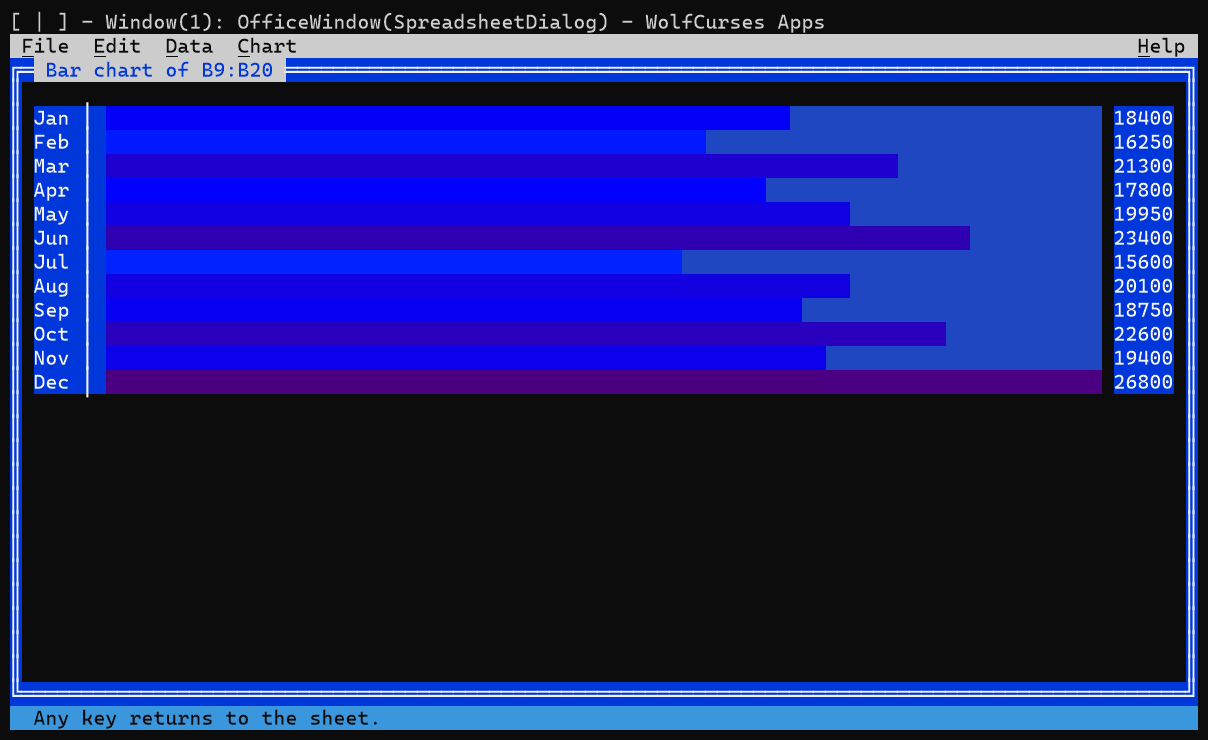
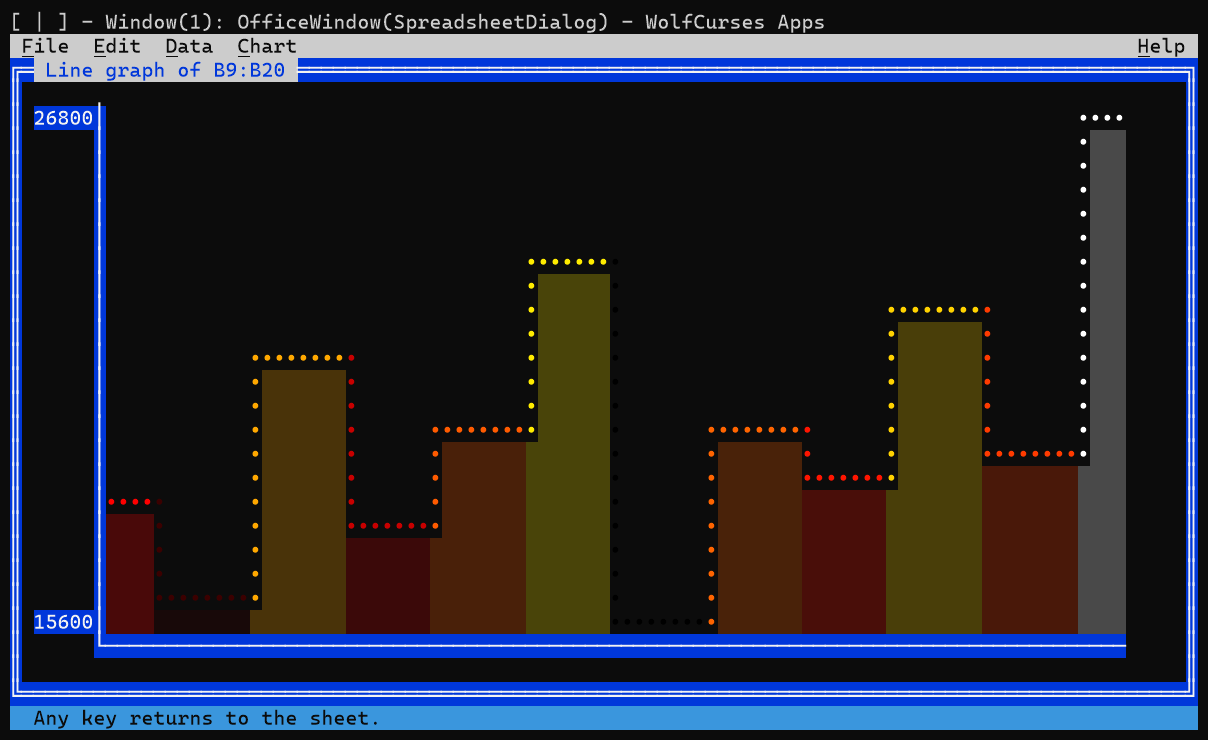
Update to speadsheet to show off line graph properly.

diff --git a/example/WolfCurses.Apps/README.md b/example/WolfCurses.Apps/README.md
@@ -60,9 +60,11 @@ A grid of cells with the same menus and frame round it, lettered columns, number
 
 **Formulas.** A cell beginning with `=` is worked out: arithmetic with the usual precedence, brackets, powers, cell references, ranges, and `SUM`, `AVERAGE`, `MIN`, `MAX`, `COUNT`, `COUNTA`, `ROUND`, `ABS`, `INT` and `SQRT`. **A cell holds what you typed and is worth something else** - the entry line under the grid shows the formula while the cell shows the answer, which is the whole distinction a spreadsheet is built on and is why saving gives back the formula rather than the number. Mistakes are values rather than exceptions: `#DIV/0!`, `#NAME?`, `#VALUE!`, `#REF!` and `#CIRC!` for a cell that needs its own value to work out its own value. **Data > Total Selection** writes a `=SUM(...)` underneath whatever is selected.
 
-![A bar chart of B9 to B20 filling the sheet's frame, each bar labelled with its month and its value](../../docs/app-spreadsheet-chart.png)
-
 **Charts.** **F6** draws the selection as labelled bars and **F7** as a line graph, both of them the library's own widgets. Labels come from the cells beside the numbers, so a column of figures with the month names to its left charts itself with no configuration at all. A rectangle is charted by its first column and the caption says so, rather than quietly picking one.
+
+![A line graph of B9 to B20 filling the sheet's frame, area filled, each column coloured by how large its value is and the scale labelled at both ends](../../docs/app-spreadsheet-chart.png)
+
+*A year of income, which is what the sheet's own instruction line points you at: twelve figures in order are a line rather than a row of bars.*
 
 **Mouse.** Click a cell, drag to sweep a rectangle, click a column letter or a row number to select the whole of it, drag the scrollbar thumb, roll the wheel. With a menu open, moving the pointer down the panel highlights each entry and sliding along the bar opens each menu in turn.
 
